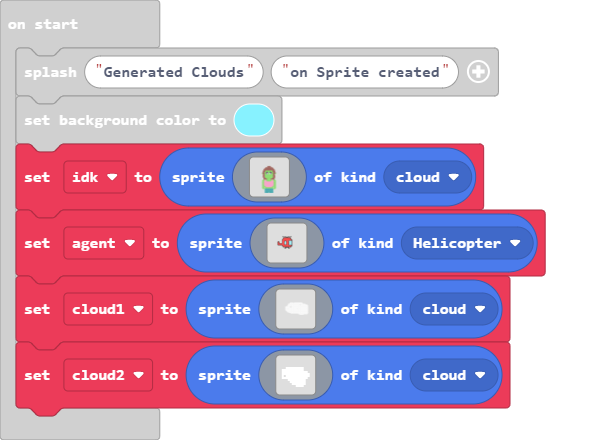
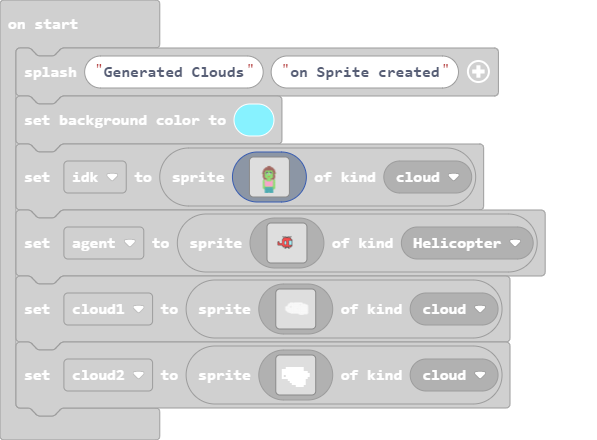
fixed new sprite

diff --git a/main.ts b/main.ts
@@ -207,26 +207,26 @@ let idk = sprites.create(img`
     ..............1eee7777777777777eee1...............
     ...............eee7777777777777eee................
     ...............eee7777777777777eee................
-    ...............eee7777777777777eee................
+    ...............eee7777722277777eee................
     ...............eee7777777777777eee................
     ................eee77777777777eee.................
     ................eeeee7777777eeeee.................
     ................eeeeee77777eeeeee.................
+    ................77337777777773377.................
     ...............7773377777777733777................
-    ..............777733777777777337777...............
-    ..............777333377777773333777...............
-    ..............777333333333333333777...............
-    ..............777333333333333333777...............
-    ..............777333333333333333777...............
-    ..............777333333333333333777...............
-    ..............777333333333333333777...............
-    ..............777333333333333333777...............
-    ..............777333333333333333777...............
-    ..............777773333333333377777...............
-    ..............777.7733333333377.777...............
-    ..............777.7777777777777.777...............
-    ..............777.7777777777777.777...............
-    ...............77.6666666666666.77................
+    ...............7773337777777333777................
+    ...............7773333333333333777................
+    ...............7773333333333333777................
+    ...............7773333333333333777................
+    ...............7773333333333333777................
+    ...............7773333333333333777................
+    ...............7773333333333333777................
+    ...............7773333333333333777................
+    ...............7777333333333337777................
+    ...............7777777777777777777................
+    ...............7776666666666666777................
+    ...............7776666666666666777................
+    ................77666666666666677.................
     ..................6666666666666...................
     ..................6666666666666...................
     ..................6666666666666...................
